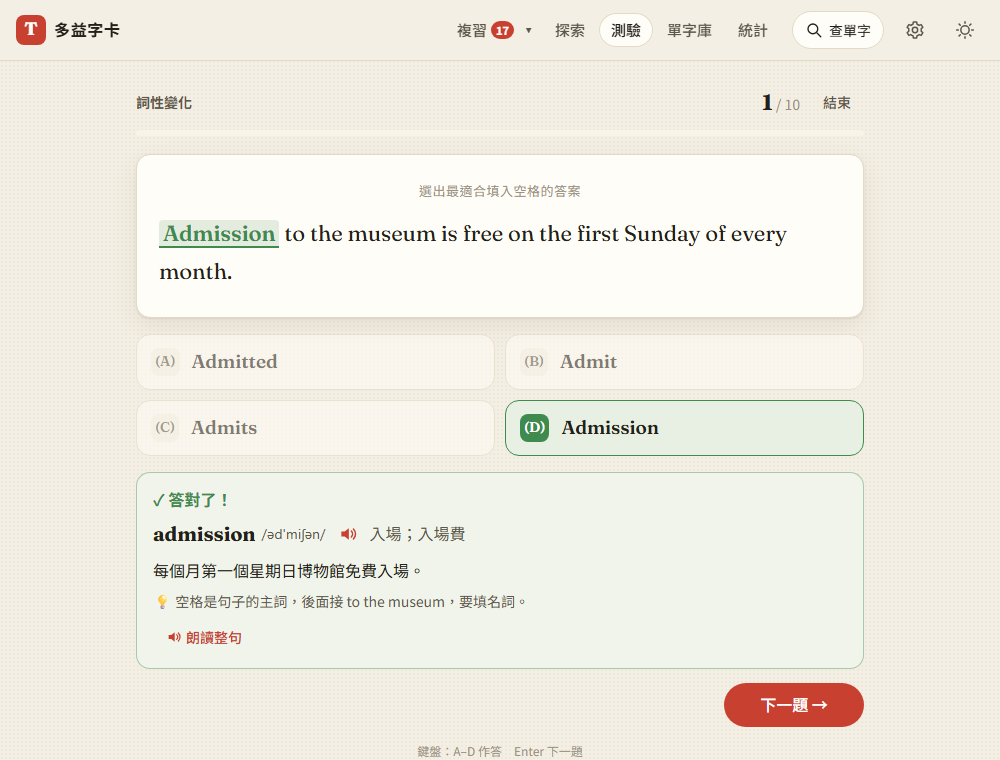
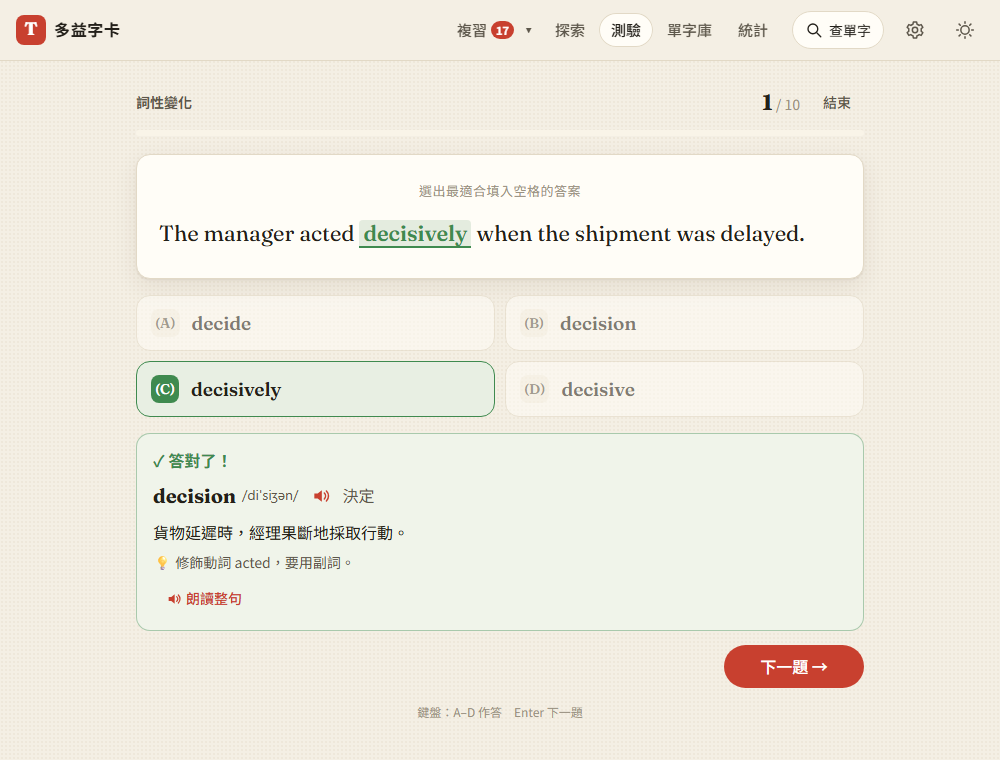
docs: README 截圖腳本改用固定隨機數，重拍時畫面沒改就不會變

diff --git a/tests/capture_readme.py b/tests/capture_readme.py
@@ -21,6 +21,9 @@ PHONE = {'width': 390, 'height': 760}
 os.makedirs(OUT, exist_ok=True)
 
 INIT = """
+// 固定的隨機數：每次截圖抽到同樣的題目、同樣的順序，畫面沒改時截圖也不會變
+(() => { let a = 20261016; Math.random = () => { a = (a + 0x6d2b79f5) >>> 0; let t = a;
+  t = Math.imul(t ^ (t >>> 15), t | 1); t ^= t + Math.imul(t ^ (t >>> 7), t | 61); return ((t ^ (t >>> 14)) >>> 0) / 4294967296; }; })();
 if (!localStorage.getItem('toeic-cards:onboarding'))
   localStorage.setItem('toeic-cards:onboarding', JSON.stringify({ version: 1, status: 'skipped' }));
 if (window.speechSynthesis) speechSynthesis.speak = () => {};
